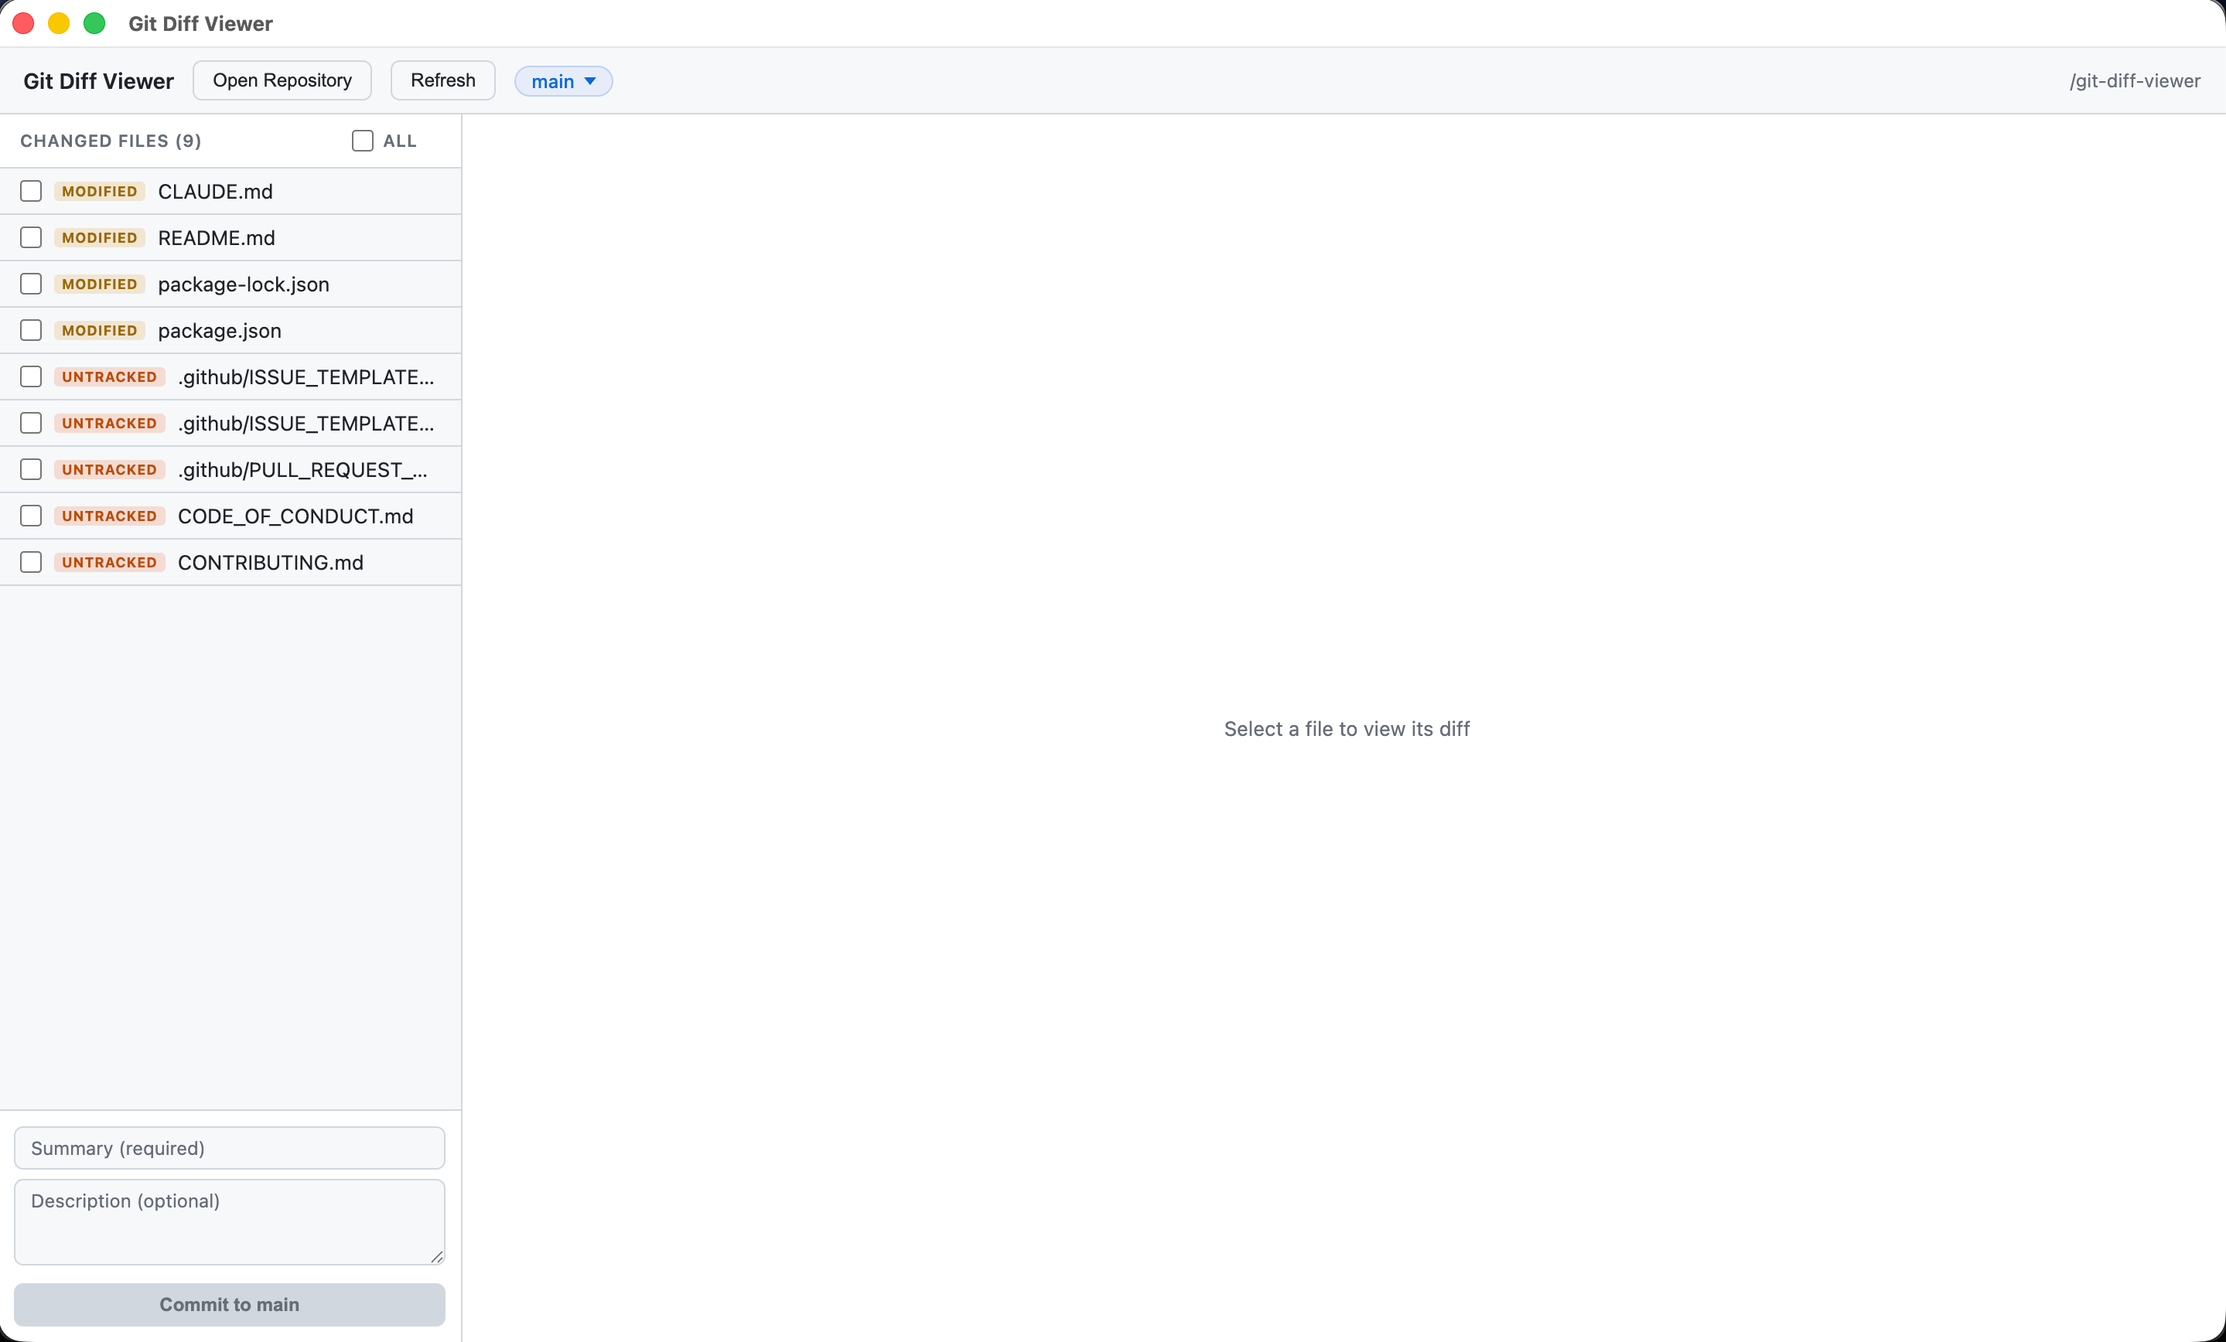
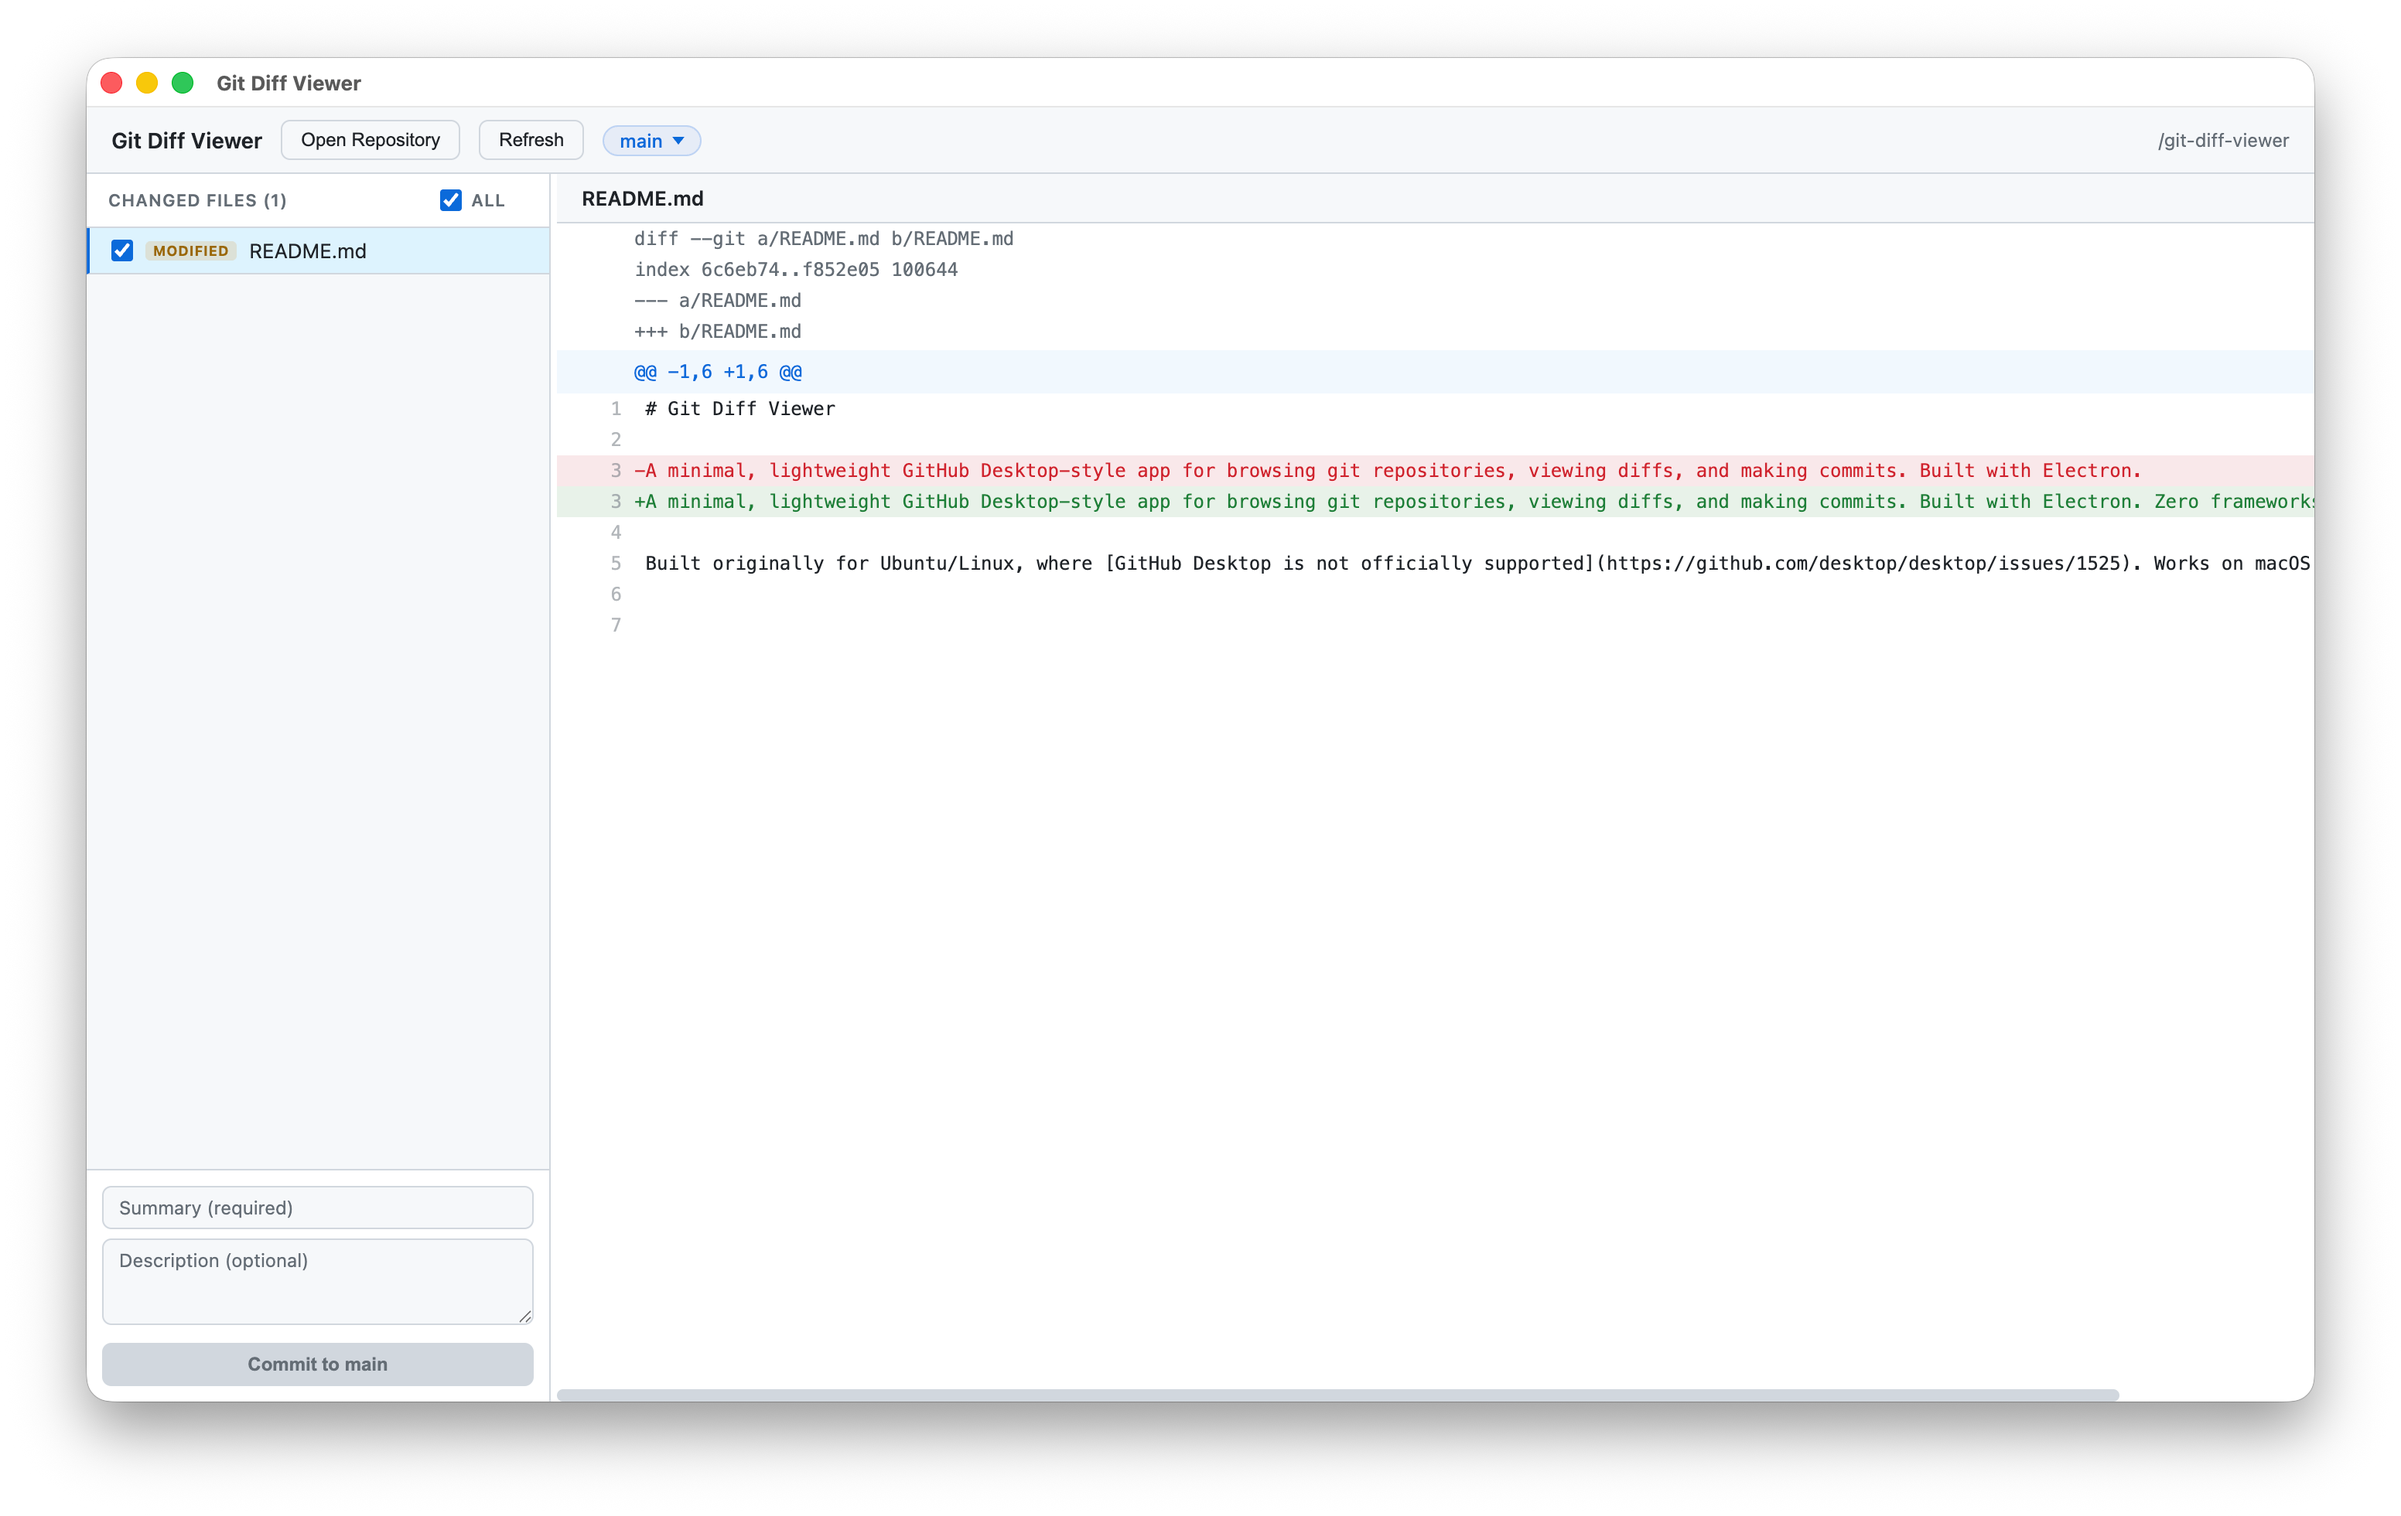
docs: update screenshot with diff view visible

diff --git a/README.md b/README.md
@@ -1,6 +1,6 @@
 # Git Diff Viewer
 
-A minimal, lightweight GitHub Desktop-style app for browsing git repositories, viewing diffs, and making commits. Built with Electron.
+A minimal, lightweight GitHub Desktop-style app for browsing git repositories, viewing diffs, and making commits. Built with Electron. Zero frameworks, zero build steps.
 
 Built originally for Ubuntu/Linux, where [GitHub Desktop is not officially supported](https://github.com/desktop/desktop/issues/1525). Works on macOS and Windows too.
 
